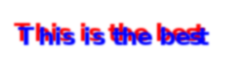
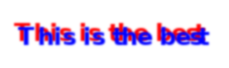
don't disable subpixel positioning for a text run when the user requests it

diff --git a/src/webrender/src/prim_store.rs b/src/webrender/src/prim_store.rs
@@ -1329,15 +1329,10 @@ impl TextRunPrimitive {
         // If subpixel AA is disabled due to the backing surface the glyphs
         // are being drawn onto, disable it (unless we are using the
         // specifial subpixel mode that estimates background color).
-        if !allow_subpixel_aa && self.used_font.bg_color.a == 0 {
+        if (!allow_subpixel_aa && self.used_font.bg_color.a == 0) ||
+            // If using local space glyphs, we don't want subpixel AA.
+            !transform_glyphs {
             self.used_font.disable_subpixel_aa();
-        }
-
-        // If using local space glyphs, we don't want subpixel AA
-        // or positioning.
-        if !transform_glyphs {
-            self.used_font.disable_subpixel_aa();
-            self.used_font.disable_subpixel_position();
         }
 
         cache_dirty
